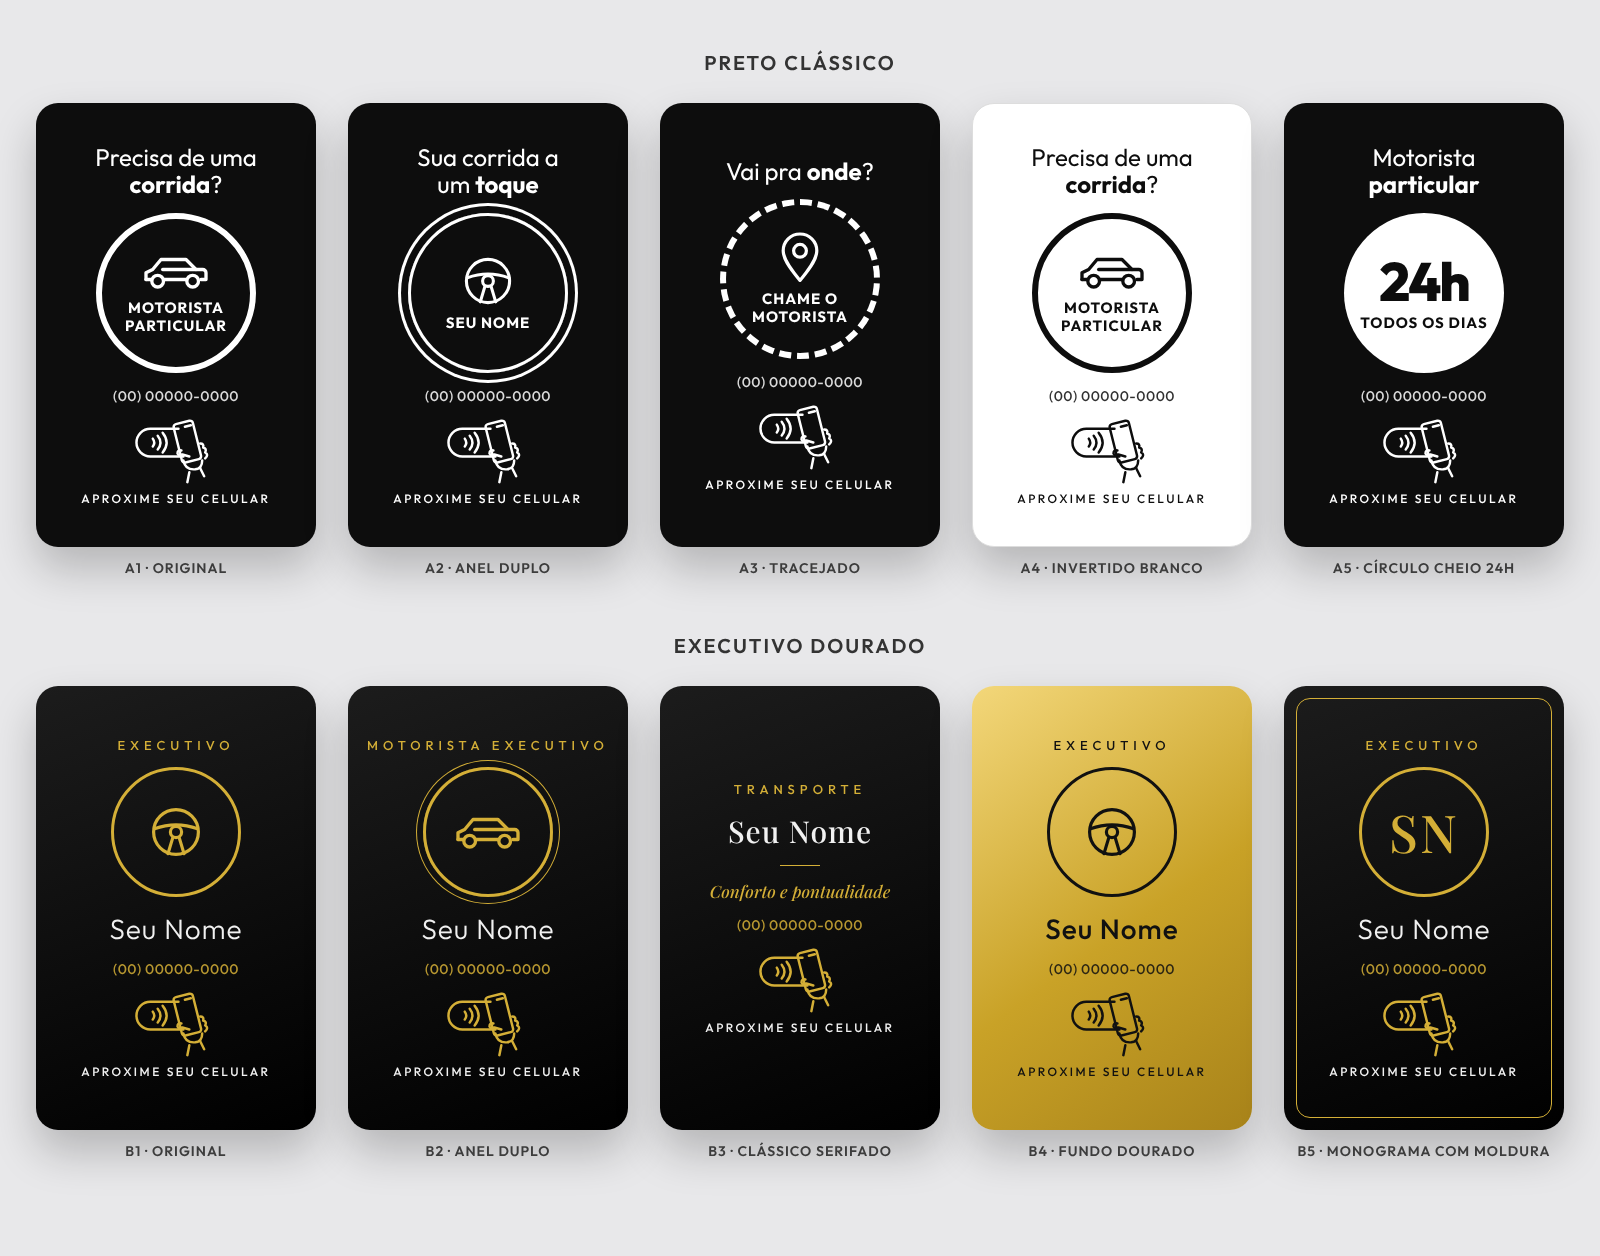
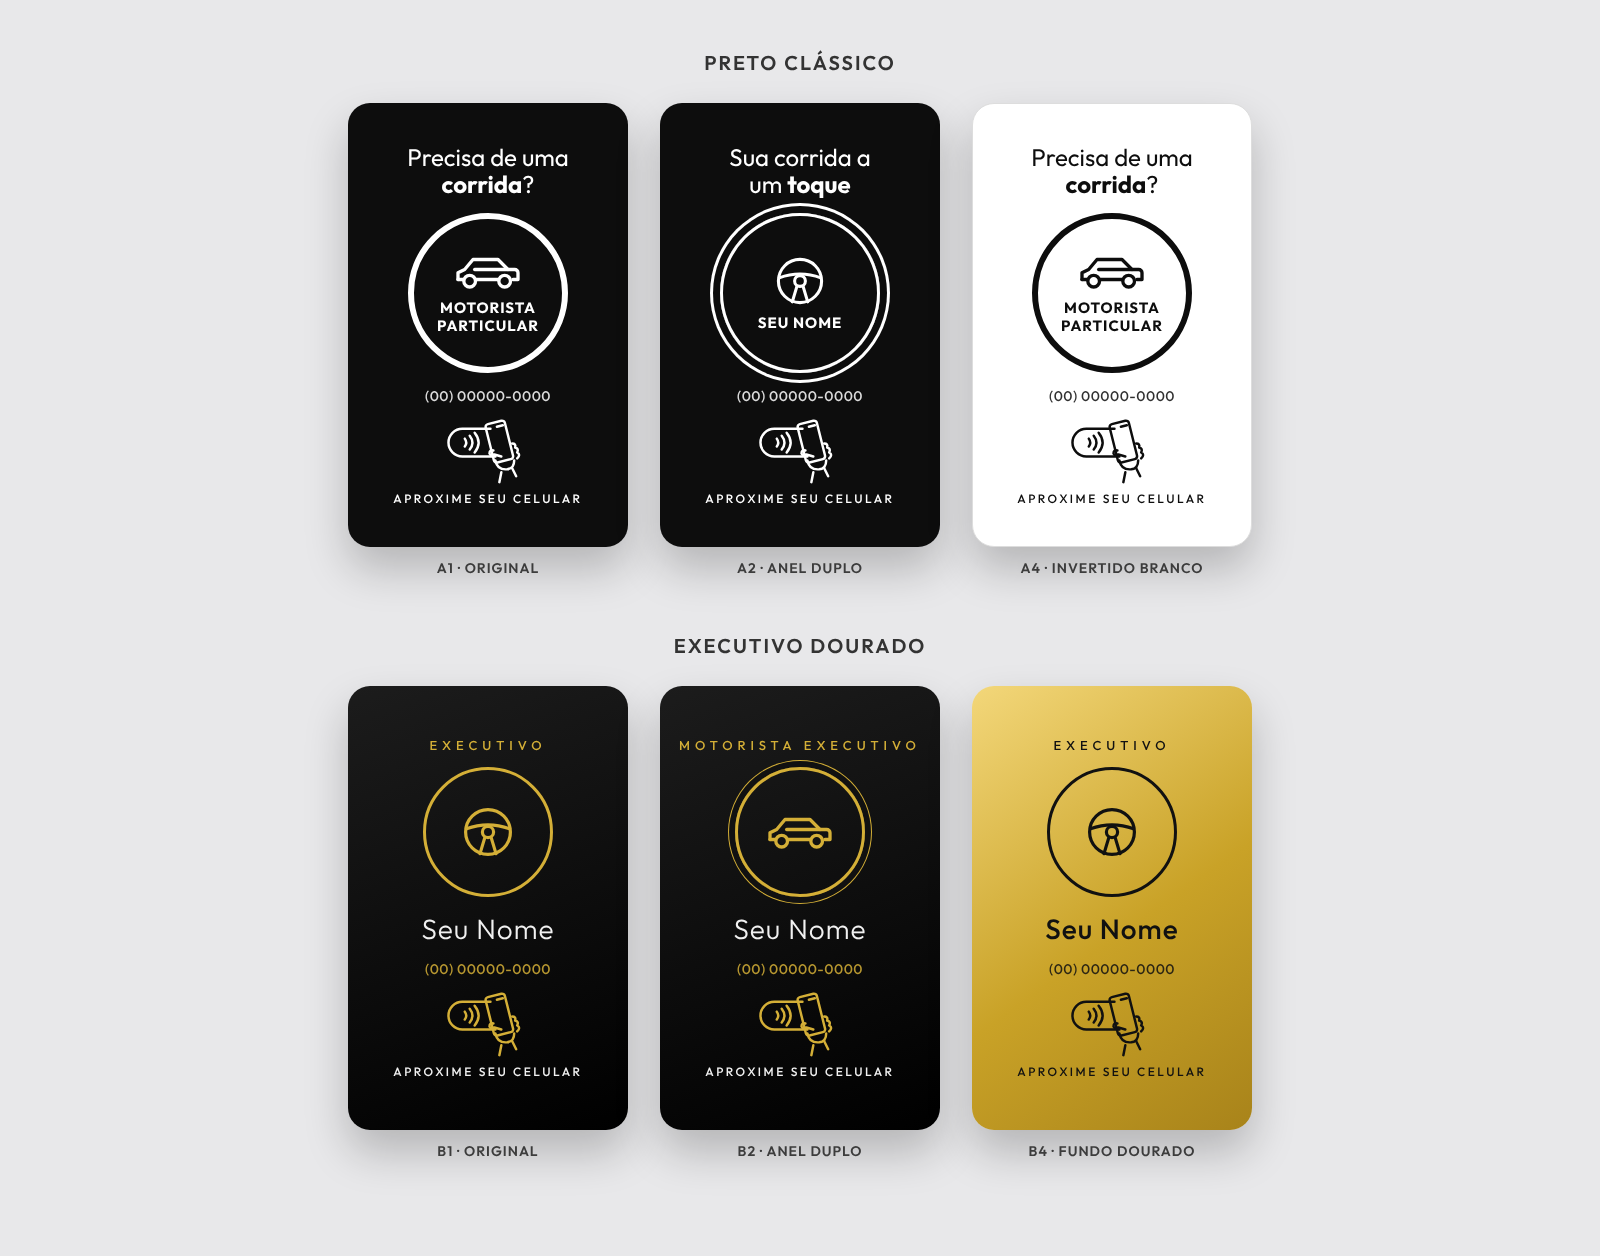
Remove modelos A3, A5, B3 e B5
Claude-Session: https://claude.ai/code/session_01NBH2bsmdxjnXe4w8AvnTGC

diff --git a/cartoes/modelos-v2.html b/cartoes/modelos-v2.html
@@ -99,26 +99,12 @@
     <svg class="nfc"><use href="#nfc"/></svg><p class="cta">APROXIME SEU CELULAR</p>
   </div><figcaption>A2 · ANEL DUPLO</figcaption></figure>
 
-  <figure><div class="card a a3">
-    <h2>Vai pra <b>onde</b>?</h2>
-    <div class="ring"><svg width="40" height="52"><use href="#pin"/></svg><strong>CHAME O<br>MOTORISTA</strong></div>
-    <div class="phone">(00) 00000-0000</div>
-    <svg class="nfc"><use href="#nfc"/></svg><p class="cta">APROXIME SEU CELULAR</p>
-  </div><figcaption>A3 · TRACEJADO</figcaption></figure>
-
   <figure><div class="card a a4">
     <h2>Precisa de uma<br><b>corrida</b>?</h2>
     <div class="ring"><svg width="70" height="42"><use href="#car"/></svg><strong>MOTORISTA<br>PARTICULAR</strong></div>
     <div class="phone">(00) 00000-0000</div>
     <svg class="nfc"><use href="#nfc"/></svg><p class="cta">APROXIME SEU CELULAR</p>
   </div><figcaption>A4 · INVERTIDO BRANCO</figcaption></figure>
-
-  <figure><div class="card a a5">
-    <h2>Motorista<br><b>particular</b></h2>
-    <div class="ring"><span class="big">24h</span><strong>TODOS OS DIAS</strong></div>
-    <div class="phone">(00) 00000-0000</div>
-    <svg class="nfc"><use href="#nfc"/></svg><p class="cta">APROXIME SEU CELULAR</p>
-  </div><figcaption>A5 · CÍRCULO CHEIO 24H</figcaption></figure>
 </div>
 
 <h1>EXECUTIVO DOURADO</h1>
@@ -139,15 +125,6 @@
     <svg class="nfc"><use href="#nfc"/></svg><p class="cta">APROXIME SEU CELULAR</p>
   </div><figcaption>B2 · ANEL DUPLO</figcaption></figure>
 
-  <figure><div class="card b b3">
-    <p class="label">TRANSPORTE</p>
-    <div class="name">Seu Nome</div>
-    <div class="rule"></div>
-    <p class="serif gold" style="font-style:italic;font-size:17px">Conforto e pontualidade</p>
-    <div class="phone gold">(00) 00000-0000</div>
-    <svg class="nfc"><use href="#nfc"/></svg><p class="cta">APROXIME SEU CELULAR</p>
-  </div><figcaption>B3 · CLÁSSICO SERIFADO</figcaption></figure>
-
   <figure><div class="card b b4">
     <p class="label">EXECUTIVO</p>
     <div class="ring"><svg width="56" height="56"><use href="#wheel"/></svg></div>
@@ -155,14 +132,6 @@
     <div class="phone">(00) 00000-0000</div>
     <svg class="nfc"><use href="#nfc"/></svg><p class="cta">APROXIME SEU CELULAR</p>
   </div><figcaption>B4 · FUNDO DOURADO</figcaption></figure>
-
-  <figure><div class="card b b5">
-    <p class="label">EXECUTIVO</p>
-    <div class="ring"><span class="mono">SN</span></div>
-    <div class="name">Seu Nome</div>
-    <div class="phone gold">(00) 00000-0000</div>
-    <svg class="nfc"><use href="#nfc"/></svg><p class="cta">APROXIME SEU CELULAR</p>
-  </div><figcaption>B5 · MONOGRAMA COM MOLDURA</figcaption></figure>
 </div>
 </body>
 </html>
